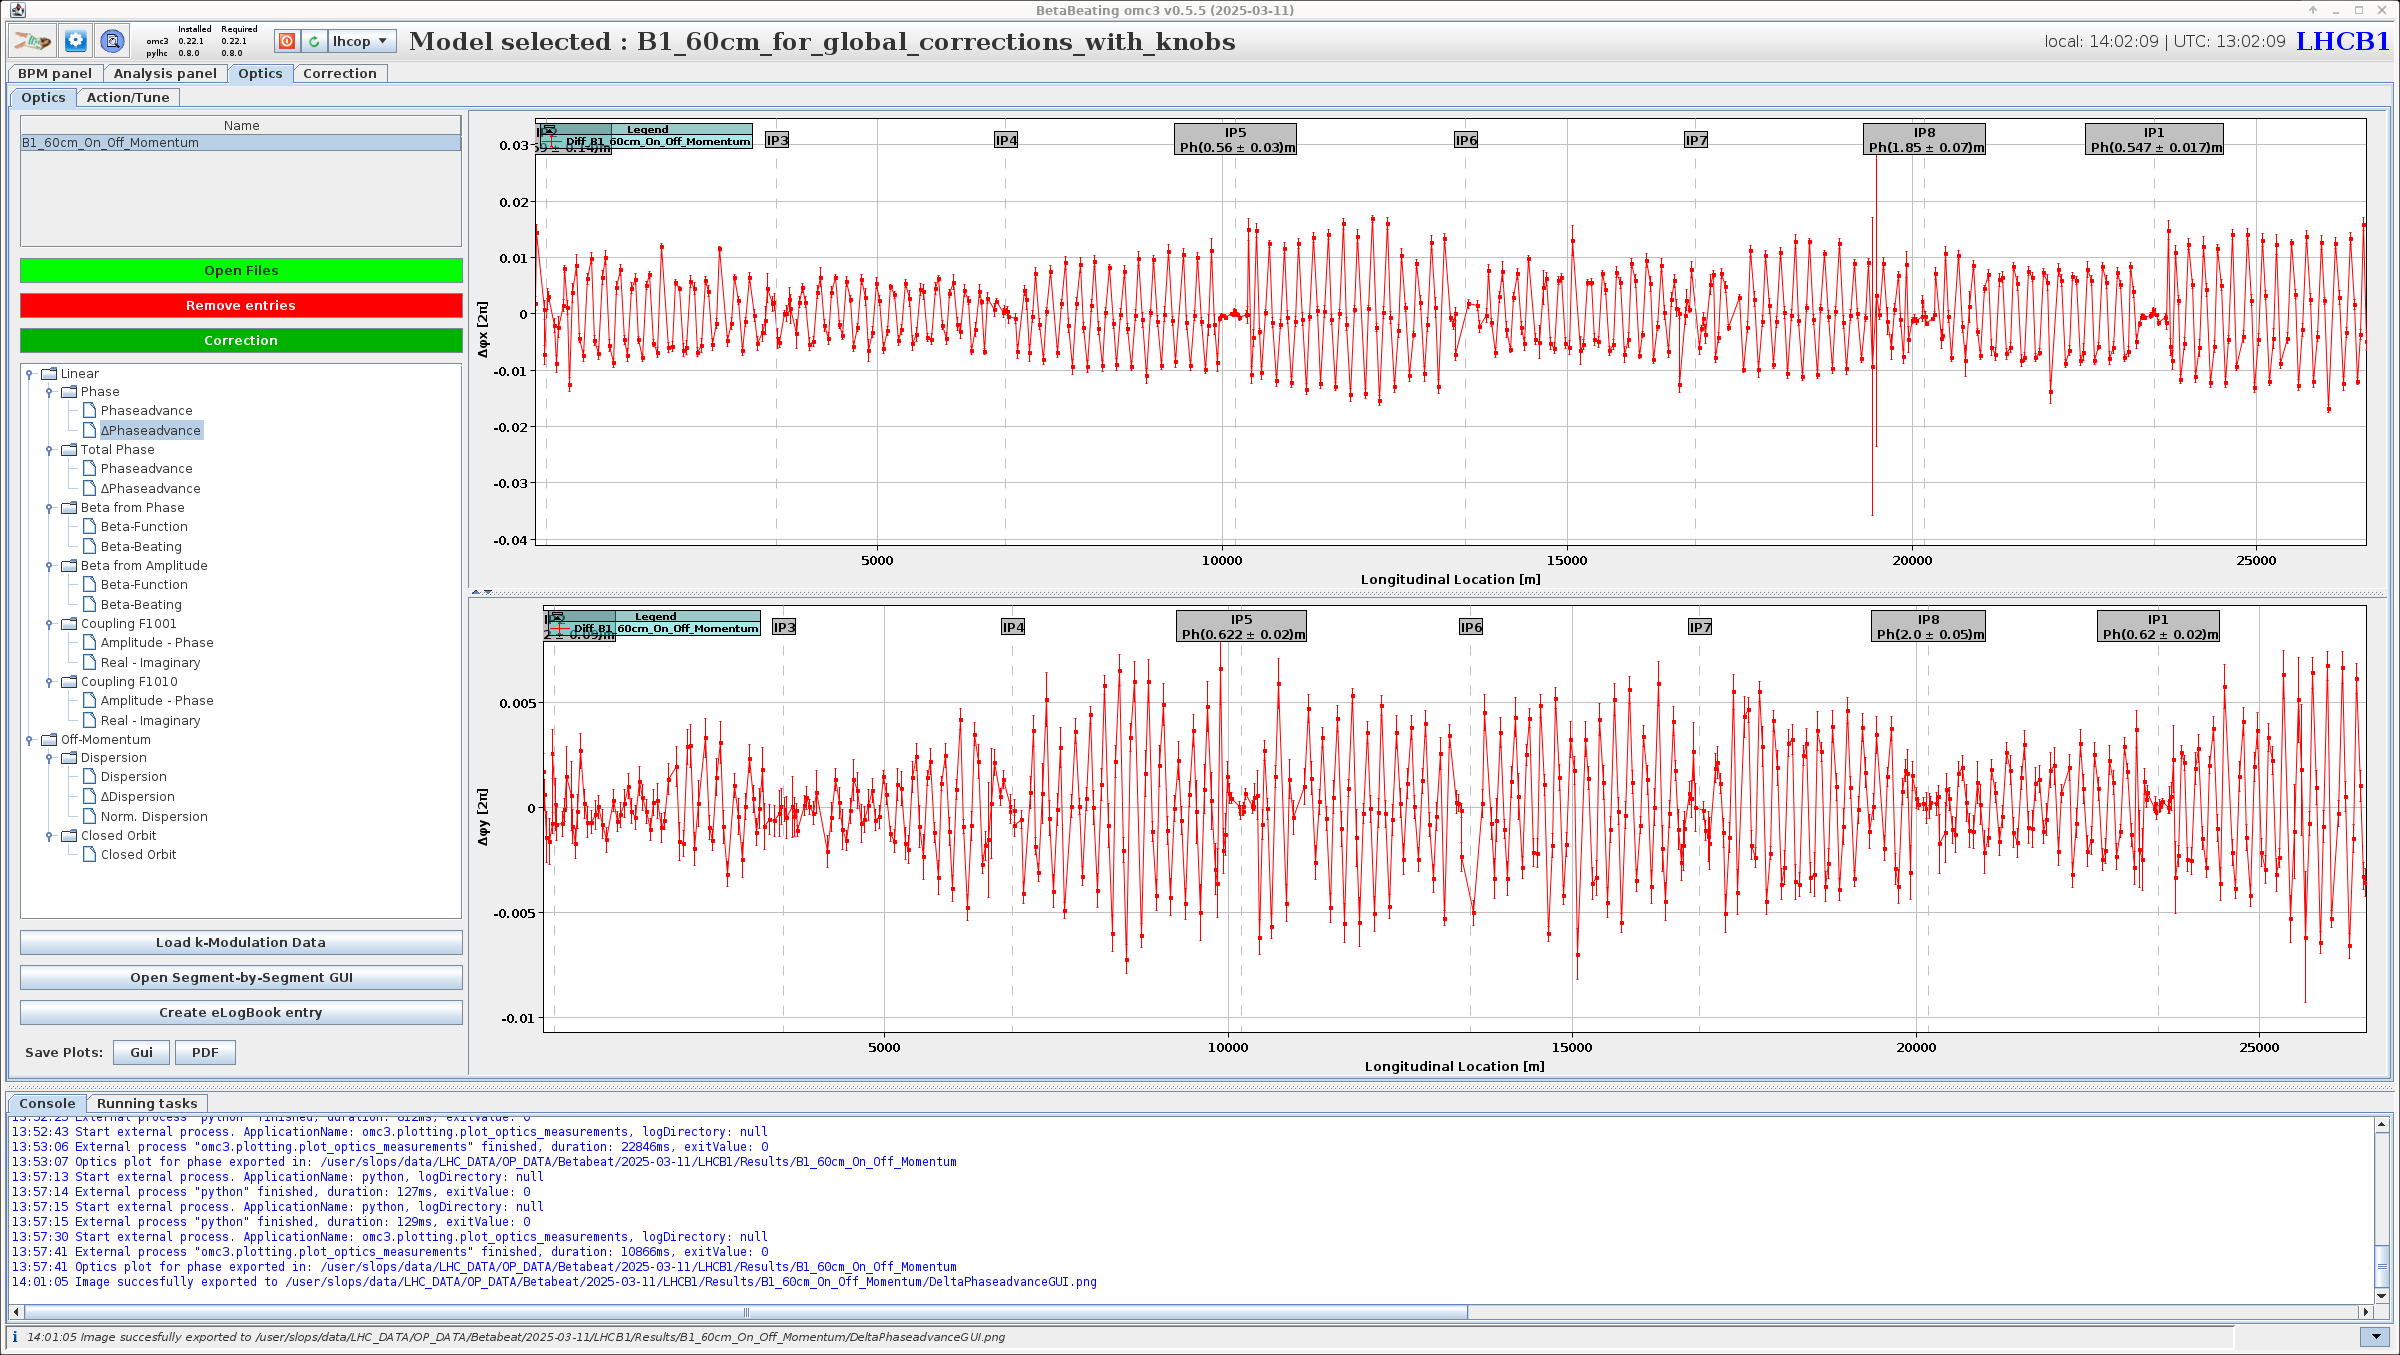
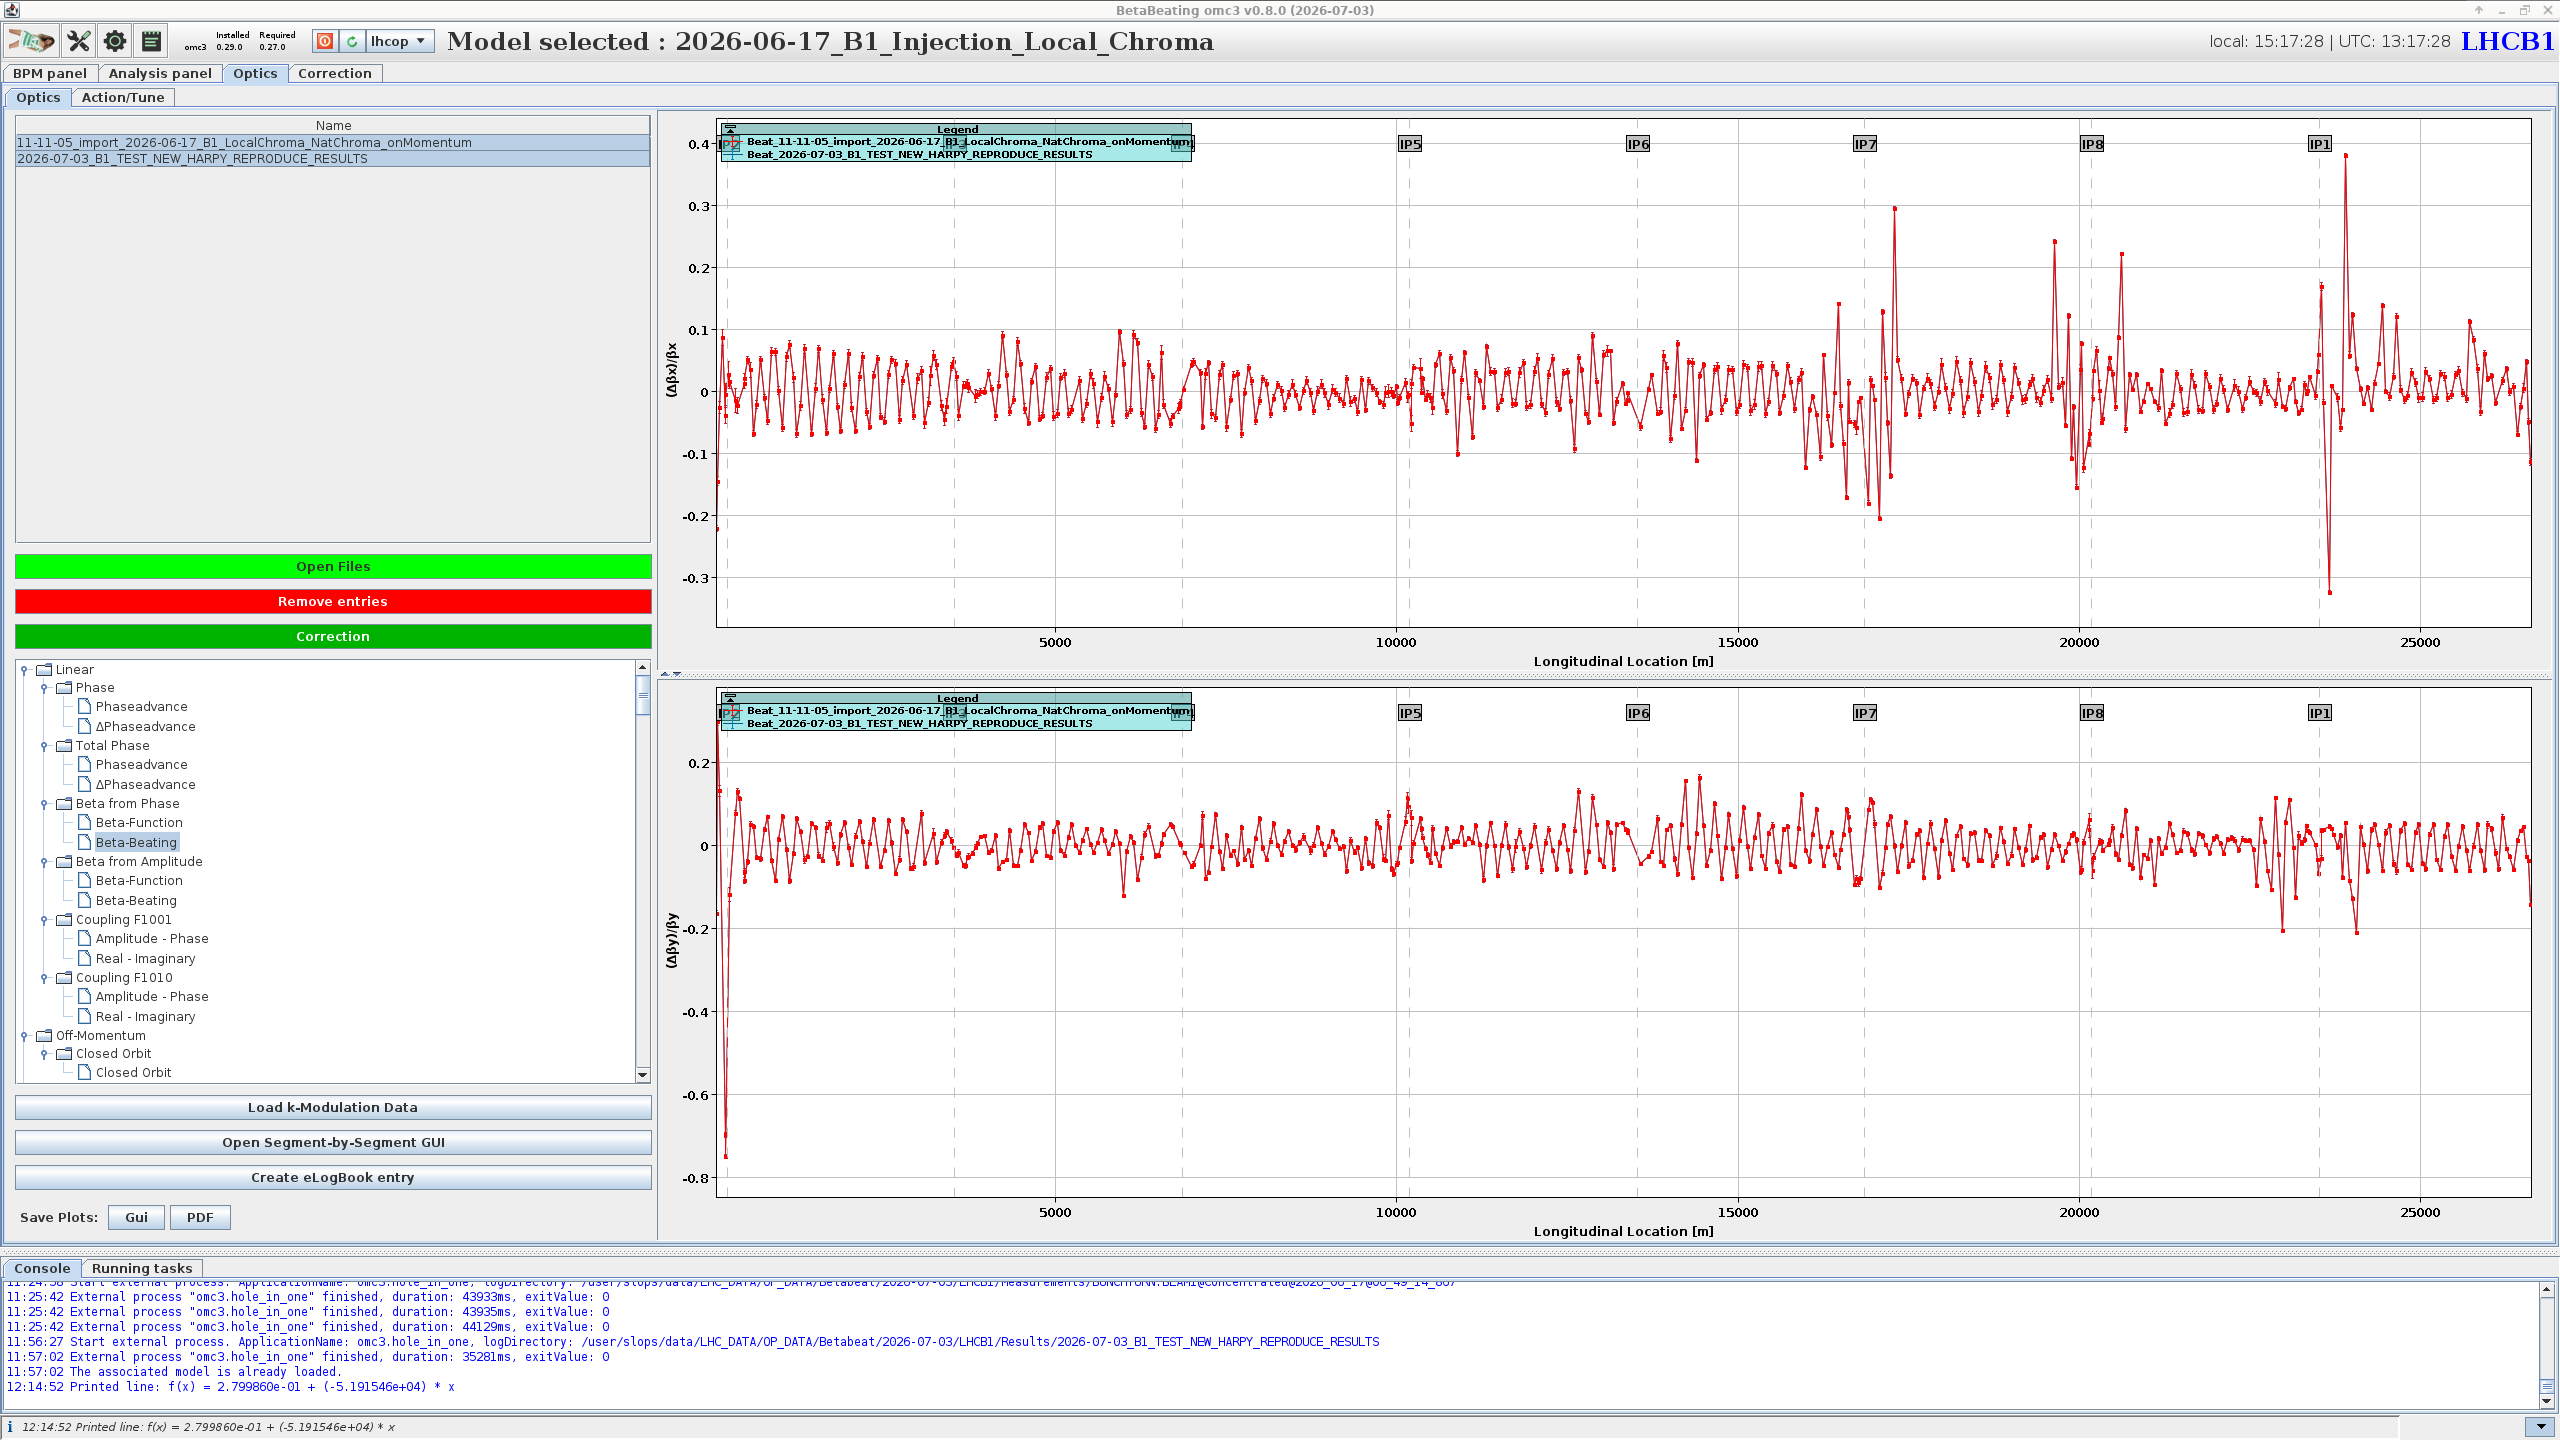
new intro to the page

Changed region(s): [[0.0, 0.0, 1.0, 1.0], [0.9062, 0.341, 0.9375, 0.403]]

diff --git a/docs/guis/betabeat/optics_panel.md b/docs/guis/betabeat/optics_panel.md
@@ -1,47 +1,39 @@
 # The Optics Panel
 
-!!! warning "Incomplete"
-    This page is a placeholder and is not yet complete.
-    Information here is outdated and needs to be revised for the `omc3` version of the Beta-Beat GUI.
+The `Optics` panel is where the computed optics are visualised and compared against the nominal model, but also against one another.
+It is also the launch point for follow-up actions such as calculating [corrections](#computing-corrections), loading k-modulation data, starting the [Segment-by-Segment GUI][sbs_gui] and creating eLogbook entries.
 
-The `Optics Panel` provides graphical interface to compare the computed optics to the nominal model.
+Once an optics analysis has produced results (via [Get Optics][bbgui_do_optics] in the analysis panel), a new entry will appear in the list box in the top left part of the panel.
+Selecting the entry for an optics analysis allows one to inspect all computed optics properties across the machine.
 
-a tree menu (on the left) provides many physical properties to be displayed.
+<figure>
+  <center>
+  <img class="clickImg" src="../../assets/images/betabeat_gui/optics_panel.png" width="100%" alt="Optics Panel"/>
+  <figcaption>The Optics panel, here showing the horizontal and vertical beta-beating for two loaded results.</figcaption>
+  </center>
+</figure>
 
-A wide variety of computed physical properties can be visualised across the entire machine.
+The panel is split into two sub-tabs, **Optics** and **Action/Tune**, described below.
+<!-- Shared elements — the [top bar][cc_top], the [plot area and its shortcuts][cc_plotting], the [console][cc_console] and the [running tasks][cc_running_tasks] indicator — are documented in [Common Components][cc]. -->
 
-!!! todo
-    Include a screenshot with the main optics tab.
+*[SbS]: Segment-by-Segment
+*[RDT]: Resonance Driving Term
+*[RDTs]: Resonance Driving Terms
+*[CRDT]: Combined Resonance Driving Term
+*[CRDTs]: Combined Resonance Driving Terms
+*[GUI]: Graphical User Interface
+*[IP]: Interaction Point
+*[SVD]: Singular Value Decomposition
 
-### Open Files
-
-- TODO: Open files (also takes BBS files! [outputfiles](betabeatsource.md#meaning-of-the-beta-beatsrc-output-files))
-
-### Optics Plotting
-
-- RDT and CRDT plots are added dynamically depending on the files present in the respective folders.
-- Nicer names and more structure in the tree.
-- Backend was rewritten, so it is now more modular and easier to add new plot-types.
-
-## Computing Corrections
-
-The `Correction` button at the bottom left of the optics panel can be used to calculate the optics corrections for the beam process.
-
-The settings dialogue offers a wide range of different options for corrections.
-This will call different external python scripts again.
-
-These scripts calculate corrections for beta-beat, coupling and horizontal and vertical dispersion using the computed response matrices.
-The following methods implement different correction algorithms:
-
-- `Coupling`: Single beam correction of coupling resonances and vertical dispersion.
-- `Global correction`: Single beam correction of phase, beta and horizontal dispersion.
-- `Iterative correction`: Two-beams version of the global correction.
-- `Chromatic coupling`: Single beam correction of chromatic coupling using skew sextupoles at dispersive locations.
-
-??? warning
-    The `Iterative correction` method is currently not compatible and thus disabled.
-
-The results are output in the `changeparameters` files.
-These files store the magnet names and corresponding correction strengths.
-
-They are also displayed in the [Correction Panel](correction_panel.md).
+[sbs_gui]: ../segment_by_segment/gui.md
+[cc]: common_components.md
+[cc_top]: common_components.md#top-of-the-gui
+[cc_plotting]: common_components.md#plotting
+[cc_console]: common_components.md#console
+[cc_running_tasks]: common_components.md#running-tasks
+[cc_file_dialogues]: common_components.md#file-opening-dialogues
+[bbgui_do_optics]: analysis_panel.md#do-optics-dialogue
+[betabeatsource]: betabeatsource.md#meaning-of-the-beta-beatsrc-output-files
+[ampdet]: ampdet.md
+[correction_panel]: correction_panel.md
+[correction_checks]: correction_panel.md#correction-checks
